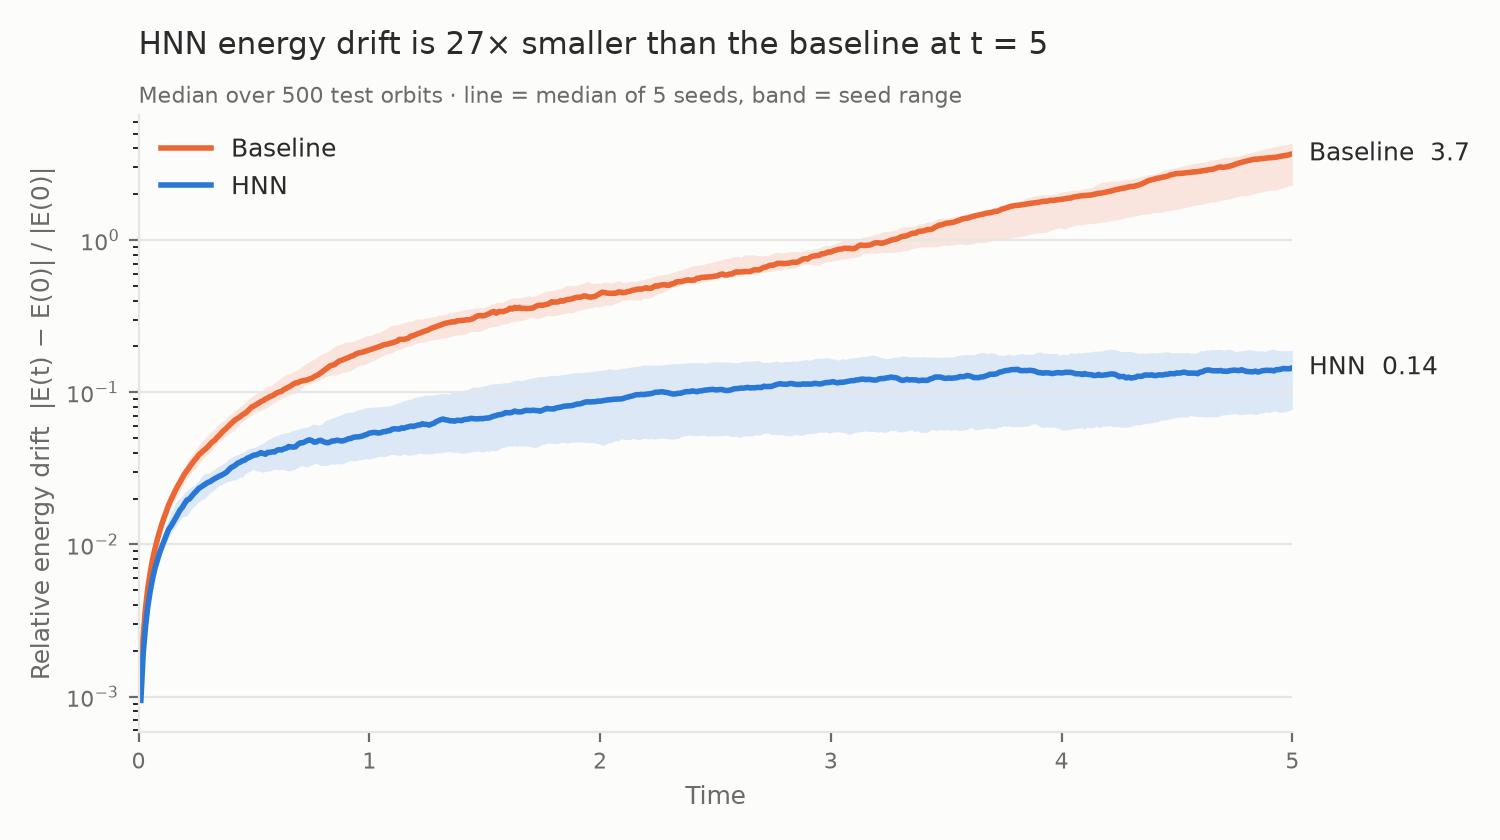
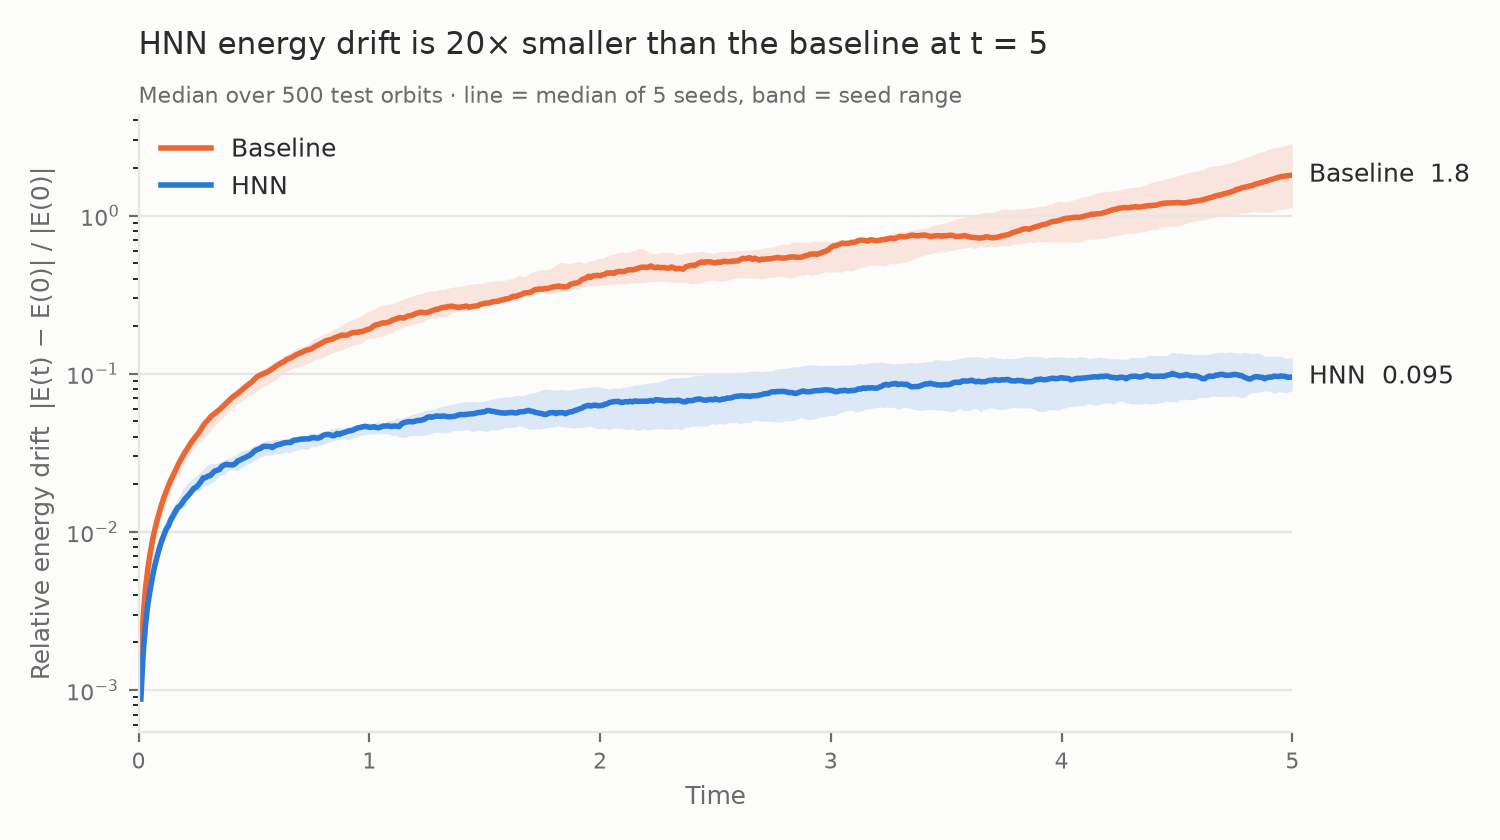
testing out_of_planar orbit parameter

diff --git a/experiment-3body/3D/data3d.py b/experiment-3body/3D/data3d.py
@@ -111,7 +111,7 @@ def rotate3d(p, theta, axis):
 # velocities never leave their plane), so the 3D model would only ever see planar
 # motion. 0.2 gives typical out-of-plane excursions of about 0.1 (orbit radius ~1)
 # without making close encounters more common.
-OUT_OF_PLANE_NOISE = 0.2
+OUT_OF_PLANE_NOISE = 0.3
 
 def random_config(nu=2e-1, min_radius=0.9, max_radius=1.2, nu_z=OUT_OF_PLANE_NOISE):
     '''Near-circular equilateral-triangle configuration in a random 3D orientation.
